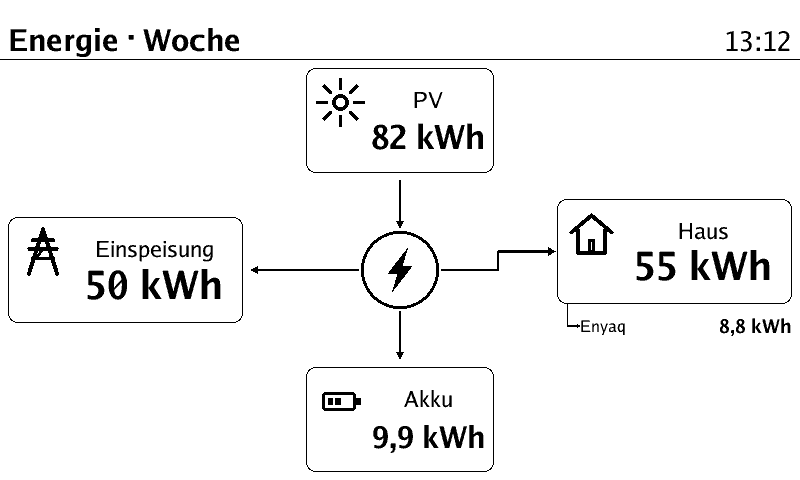
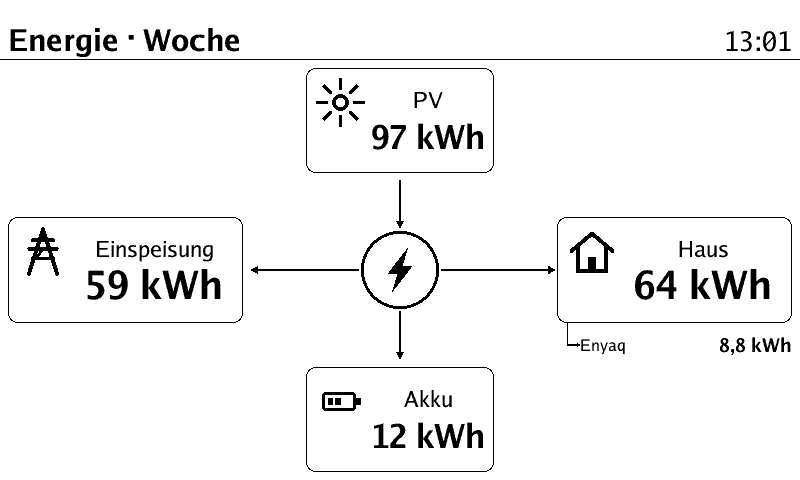
Keep the home card centred and list only active loadpoints in the flow (#404)

diff --git a/plugins/cmd/evcc/flow.go b/plugins/cmd/evcc/flow.go
@@ -158,19 +158,17 @@ func (e *evcc) flow(w plugin.WidgetRequest, img *image.Paletted) error {
 	}
 	grid.rect = rectAt(float64(b.Min.X), cy-cardH/2, sideW, cardH)
 
-	// Home and chargers form one group, centred vertically. The chargers are
-	// text lines, so they need far less height than cards.
+	// The chargers are text lines, so they need far less height than cards. A
+	// group that does not fit shrinks its rows before the home card moves.
 	rowH := math.Min(cardH*0.40, 30)
 	groupH := cardH + float64(nlp)*rowH + float64(nlp)*gap
 	if groupH > H && nlp > 0 {
 		rowH = math.Max((H-cardH-float64(nlp)*gap)/float64(nlp), 10)
-		groupH = cardH + float64(nlp)*rowH + float64(nlp)*gap
 	}
-	gy := cy - groupH/2
-	home.rect = rectAt(float64(b.Max.X)-sideW, gy, sideW, cardH)
+	homeTop, rowY := flowPlacement(b, cy, cardH, rowH, gap, nlp)
+	home.rect = rectAt(float64(b.Max.X)-sideW, homeTop, sideW, cardH)
 	for i, n := range lpn {
-		y := gy + cardH + gap + float64(i)*(rowH+gap)
-		n.rect = rectAt(float64(b.Max.X)-sideW, y, sideW, rowH)
+		n.rect = rectAt(float64(b.Max.X)-sideW, rowY[i], sideW, rowH)
 	}
 
 	stroke := math.Max(e.req.PtPx(1.2), 1)
@@ -234,6 +232,25 @@ func (e *evcc) flow(w plugin.WidgetRequest, img *image.Paletted) error {
 		e.flowTextRow(img, n, home.rect.Min.X+int(sideW*0.10), home.rect.Max.X, base)
 	}
 	return nil
+}
+
+// flowPlacement keeps the home card at the vertical centre. The loadpoint rows
+// sit below it, and the whole group moves up only when the last row would
+// cross the bottom padding.
+func flowPlacement(b image.Rectangle, cy, cardH, rowH, gap float64, n int) (float64, []float64) {
+	top := cy - cardH/2
+	groupH := cardH + float64(n)*(rowH+gap)
+	switch {
+	case groupH > float64(b.Dy()):
+		top = float64(b.Min.Y)
+	case top+groupH > float64(b.Max.Y):
+		top -= top + groupH - float64(b.Max.Y)
+	}
+	rows := make([]float64, n)
+	for i := range rows {
+		rows[i] = top + cardH + gap + float64(i)*(rowH+gap)
+	}
+	return top, rows
 }
 
 // flowArrow draws the link of one node. Every path runs from the node to the
@@ -346,7 +363,11 @@ func (e *evcc) flowPeriod(period string) (*flowModel, error) {
 		if i >= 3 {
 			break
 		}
-		lps = append(lps, &s.Loadpoints[i])
+		lp := &s.Loadpoints[i]
+		if sum(loadpointKey(lp.Title), "energy") < flowIdleEnergy {
+			continue
+		}
+		lps = append(lps, lp)
 	}
 	m := &flowModel{battery: -1, lps: len(lps), energy: true}
 	gridLabel := e.t("Netz", "Grid")

diff --git a/plugins/cmd/evcc/flow_test.go b/plugins/cmd/evcc/flow_test.go
@@ -2,6 +2,7 @@ package main
 
 import (
 	"fmt"
+	"image"
 	"image/png"
 	"math"
 	"os"
@@ -12,6 +13,39 @@ import (
 	"github.com/maehld/paperboy/sdk/plugin"
 	"github.com/maehld/paperboy/sdk/render"
 )
+
+// TestFlowHomeKeepsItsCentre checks the placement: the home card stays in the
+// middle with one or three loadpoints, and moves up only when a row would
+// cross the bottom padding.
+func TestFlowHomeKeepsItsCentre(t *testing.T) {
+	const (
+		cy    = 240.0
+		cardH = 100.0
+		rowH  = 20.0
+		gap   = 10.0
+	)
+	b := image.Rect(0, 0, 800, 480)
+	one, rowsOne := flowPlacement(b, cy, cardH, rowH, gap, 1)
+	three, rowsThree := flowPlacement(b, cy, cardH, rowH, gap, 3)
+	if one != three || one != cy-cardH/2 {
+		t.Errorf("home y = %v with one and %v with three, want %v", one, three, cy-cardH/2)
+	}
+	if len(rowsOne) != 1 || len(rowsThree) != 3 {
+		t.Fatalf("rows = %d and %d, want 1 and 3", len(rowsOne), len(rowsThree))
+	}
+	if rowsThree[0] != one+cardH+gap {
+		t.Errorf("first row y = %v, want %v", rowsThree[0], one+cardH+gap)
+	}
+
+	low := image.Rect(0, 0, 800, 260)
+	top, rows := flowPlacement(low, 130, cardH, rowH, gap, 3)
+	if last := rows[len(rows)-1] + rowH; last > float64(low.Max.Y) {
+		t.Errorf("the last row ends at %v, below %v", last, low.Max.Y)
+	}
+	if top >= 130-cardH/2 {
+		t.Errorf("the group did not move up: home y = %v", top)
+	}
+}
 
 func flowFixture(t *testing.T, name string) *evcc {
 	body, err := os.ReadFile(filepath.Join("testdata", name+".json"))

diff --git a/plugins/cmd/evcc/flow_period_test.go b/plugins/cmd/evcc/flow_period_test.go
@@ -39,7 +39,7 @@ func TestFlowPeriodValues(t *testing.T) {
 	if err != nil {
 		t.Fatal(err)
 	}
-	if m.lps != 3 || m.battery != 2 {
+	if m.lps != 1 || m.battery != 2 {
 		t.Fatalf("model = %d lps, battery %d", m.lps, m.battery)
 	}
 	want := []struct {
@@ -52,8 +52,6 @@ func TestFlowPeriodValues(t *testing.T) {
 		{"Akku", "2,0 kWh", 2, false},
 		{"Haus", "6,0 kWh", -6, false},
 		{"Octavia", "4,0 kWh", -4, false},
-		{"Zoe", "0,0 kWh", 0, true},
-		{"Guest", "0,0 kWh", 0, true},
 	}
 	if len(m.nodes) != len(want) {
 		t.Fatalf("nodes = %d, want %d", len(m.nodes), len(want))

diff --git a/docs/plugins/evcc.md b/docs/plugins/evcc.md
@@ -36,7 +36,7 @@ and the year:
 ## Widgets
 
 - `site`: PV, home, grid with import/export, home battery or grid price. Args: `columns` (`2` or `4`, default 2).
-- `flow`: energy flow diagram with rounded cards and one line-icon set: the house connection (hub) in the middle, PV above, the battery below, the grid left and the home right. Up to three loadpoints are text lines below the home; a thin tree joins the active ones. A link exists only while power or energy flows: arrows point into the hub for PV, grid import and battery discharge, and out to the home, the loadpoints, export and charging. An idle node keeps its card and value but has no link. The grid card reads "Grid import" or "Grid export". Links follow Home Assistant's energy distribution: PV serves the home and the loadpoints first, then charges the battery and exports the rest; a deficit comes from the battery before the grid. Args: `period` (`now` default, or `today`, `yesterday`, `week`, `last_week`, `month`, `last_month`, `year`, `last_year`). `now` reads `/api/state` in W; a period sums the energy history of the same categories as the `history` widget, in kWh, and is as current as `history_refresh`. In small cells the pictograms go first, then the state of charge in the labels, then the labels. Sizes follow the display ppi.
+- `flow`: energy flow diagram with rounded cards and one line-icon set: the house connection (hub) in the middle, PV above, the battery below, the grid left and the home right. Up to three loadpoints are text lines below the home; a thin tree joins the active ones. The home card stays at the vertical centre, and the group moves up only when the last row would cross the bottom padding. A period lists only loadpoints whose energy is at least 0.05 kWh, so a period without a charging loadpoint shows no rows and no tree. A link exists only while power or energy flows: arrows point into the hub for PV, grid import and battery discharge, and out to the home, the loadpoints, export and charging. An idle node keeps its card and value but has no link. The grid card reads "Grid import" or "Grid export". Links follow Home Assistant's energy distribution: PV serves the home and the loadpoints first, then charges the battery and exports the rest; a deficit comes from the battery before the grid. Args: `period` (`now` default, or `today`, `yesterday`, `week`, `last_week`, `month`, `last_month`, `year`, `last_year`). `now` reads `/api/state` in W; a period sums the energy history of the same categories as the `history` widget, in kWh, and is as current as `history_refresh`. In small cells the pictograms go first, then the state of charge in the labels, then the labels. Sizes follow the display ppi.
 - `balance`: the energy split as a T-account. Sources stand on the left (PV, grid import, battery discharge), consumers on the right (home, charging, battery charge, export). The rows are fixed, so a value never moves; a zero shows a gray dash. `Charging (n)` groups all loadpoints. Each side sums its values at the bottom. The widget shows the current power only. The two totals can differ a little because evcc measures each category on its own.
 - `loadpoint`: vehicle, mode, a state-of-charge bar with the limit as a tick, range, charge power and phases, remaining time, session energy and solar share. Args: `index` (default 0).
 - `forecast`: solar forecast as an area and the grid price as steps for the next `hours` (default 24). Image only.
